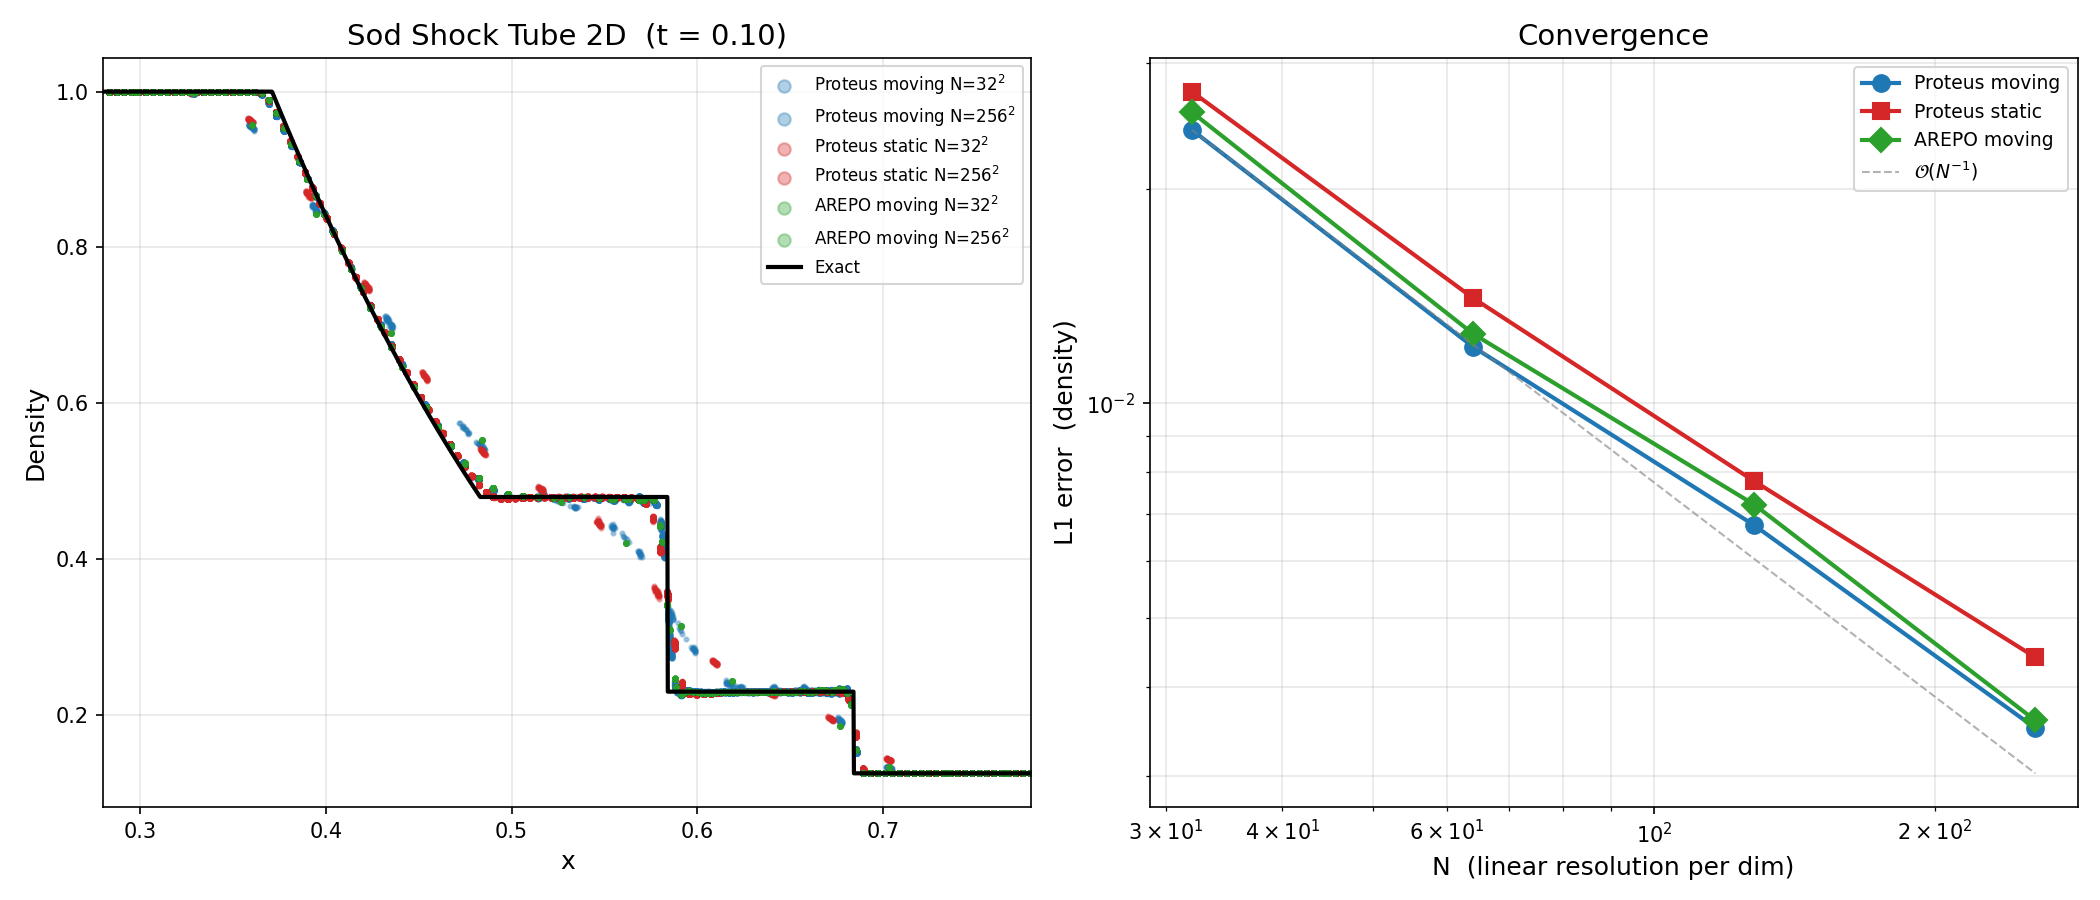
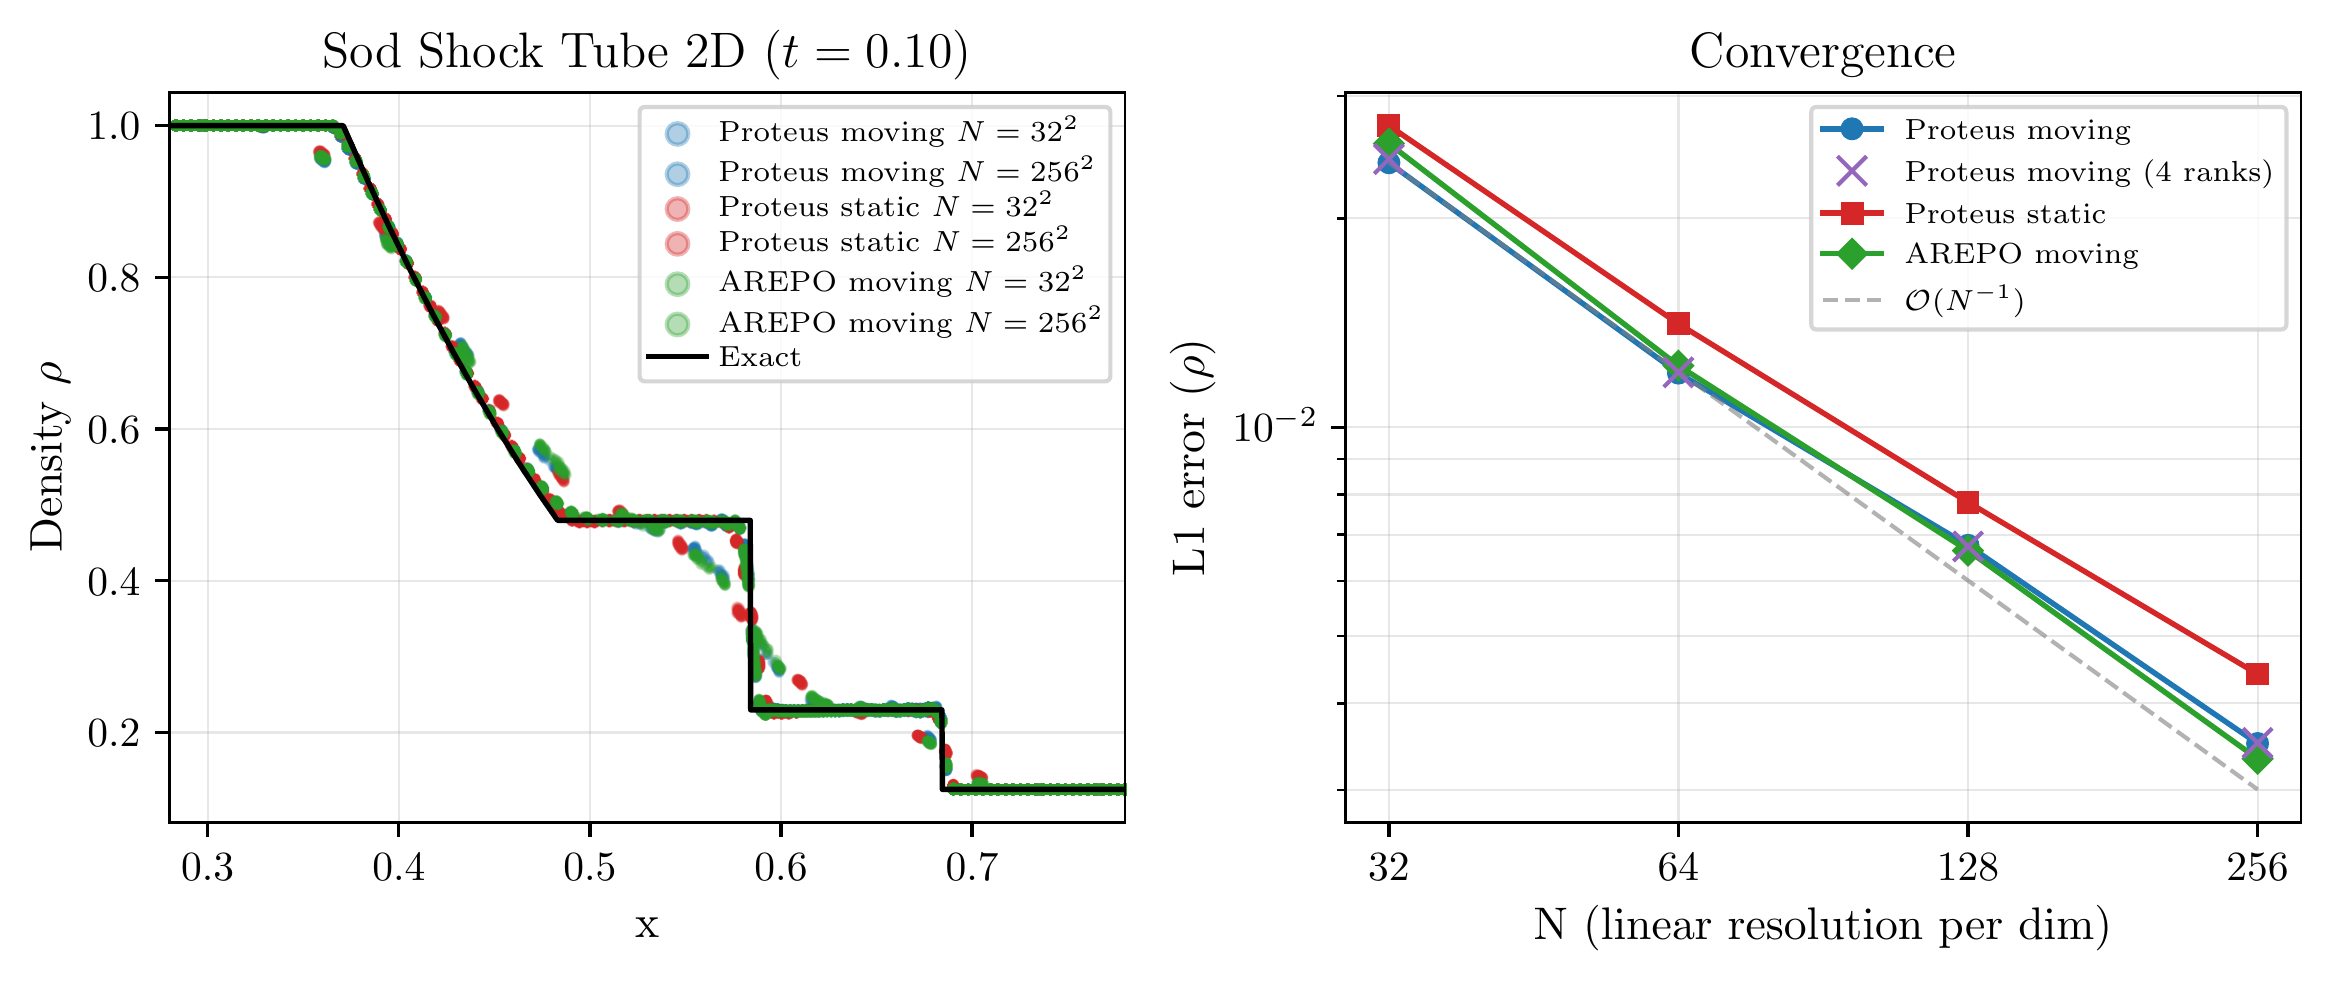
[DOC]: update readme + figures

diff --git a/README.md b/README.md
@@ -1,60 +1,91 @@
-# ProteusGPU
+# Proteus
 
 [![Build](https://github.com/lucas56098/ProteusGPU/actions/workflows/build.yml/badge.svg)](https://github.com/lucas56098/ProteusGPU/actions/workflows/build.yml) [![Version 0.8](https://img.shields.io/badge/version-0.8-blue)](https://github.com/lucas56098/ProteusGPU/releases)
 
-![Banner](/docs/figures/banner_v6.webp)
+![Banner](./docs/figures/banner_v6.webp)
 
-Proteus is a GPU accelerated moving mesh hydrodynamics code.
+PROTEUS is a multi-node GPU-native moving mesh hydrodynamics code.
 
-It combines the algorithmic approach of ["Meshless Voronoi on the GPU" [Ray et. al 2018]](https://doi.org/10.1145/3272127.3275092) with a moving mesh hydro solver similar to ["AREPO" [Springel 2010]](https://academic.oup.com/mnras/article/401/2/791/1147356) ported to GPU.
+It combines the mesh generation of [[Ray et. al 2018]](https://doi.org/10.1145/3272127.3275092) with a moving mesh hydro solver similar to ["AREPO" [Springel 2010]](https://academic.oup.com/mnras/article/401/2/791/1147356) and is optimized for unified memory architectures like NVIDIA's GH200 chips targeting exascale astrophysical applications.
+
+PROTEUS supports 2D/3D static/moving mesh generation on CPU and GPU (both unified and discrete memory) and is parallelized using an OpenMP + MPI hybrid (GPU-aware).
+
+Additionally to the pure hydro solver there is support for static potential gravity, radiative cooling, a stellar feedback subgrid model as well as a chaotic cold accretion AGN model with thermal and kinetic mode feedback.
 
 > [!NOTE]
-> The current version runs **2D/3D moving mesh hydrodynamics on NVIDIA GH200s** as well as discrete NVIDIA GPUs and CPUs. A rudimentary multi-node version is implemented but optimizations are ongoing.
+> The current version is still under active development, so expect rapid changes. Proper documentation will follow eventually.
 
-This project is being done during my master's thesis, supervised by [Dylan Nelson](https://nelson.tng-project.org/), at the Institute of Theoretical Astrophysics, Heidelberg University.
 
+This project started during my master's thesis, supervised by [Dylan Nelson](https://nelson.tng-project.org/), at the Institute of Theoretical Astrophysics, Heidelberg University.
+
+---
+
+## Contents
+
+- [Examples](#examples)
+    - [Convergence](#convergence)
+    - [Performance](#performance)
+    - [Multi-node scaling](#multi-node-scaling)
+- [Getting started](#getting-started)
+- [Roadmap](#roadmap)
+
+---
+## Examples 
+
+A $50^2$ Kelvin-Helmholtz instability on static and moving meshes.<br>
+<img src="./docs/figures/kh.png" alt="Image" width="100%">
+
+2D Riemann problem as in [[Kurganov and Tadmor, 2002]](https://www.semanticscholar.org/paper/Solution-of-two%E2%80%90dimensional-Riemann-problems-for-Kurganov-Tadmor/a44da75f9a36ab879fb9073f2571801eb7bc74a3)<br>
+<img src="./docs/figures/quadshock.png" alt="Image" width="100%">
+
+Volume rendering of AGN-feedback in an idealized Perseus-like cool-core cluster. Shown is the velocity magnitude with cool gas ($T < 5\times10^4 K$) overlaid in blue.<br>
+<img src="./docs/figures/jet_double_1024_s53.png" alt="Image" width="100%">
+
+### Convergence
+
+Acoustic wave test showing second order convergence:<br>
+<img src="./docs/figures/wave.png" alt="Image" width="100%">
+
+Sod shock tube test showing error relative to AREPO:<br>
+<img src="./docs/figures/sod_convergence.png" alt="Image" width="100%">
+
+Gresho vortex test:<br>
+<img src="./docs/figures/gresho_convergence.png" alt="Image" width="100%">
+
+### Performance
+
+Per step time for a $454^3$ acoustic wave test on two GH200 chips:<br>
+<img src="./docs/figures/perf_twonode_arepo.png" alt="Image" width="100%">
+
+Breakdown of where the per step time is spent:<br>
+<img src="./docs/figures/perf_step_breakdown.png" alt="Image" width="100%">
+
+Roofline plot for the major Kernels. Fast and slow-tier are part of the two-tier mesh generation.<br>
+<img src="./docs/figures/perf_kernel_roofline.png" alt="Image" width="100%">
+
+### Multi-node scaling
+
+Weak scaling on JUWELS booster for an acoustic wave test with up to $1920^3$ and $512$ A$100$ GPUs.<br>
+<img src="./docs/figures/weak_scaling_final.png" alt="Image" width="100%">
+
+---
 ## Getting started
 
+Dependencies: HDF5, CUDA (for GPU mode)
+
 1. After cloning the repo select your system in `Makefile.systype` (or add your own to the `Makefile`)
-2. Configure compilation flags in `Config.sh` and build with `make`
-3. Use a `create.py` script for IC generation and specify simulation parameters in `param.txt`
+2. Configure compilation flags in a `Config.sh` and build with
+```bash
+make CONFIG=/path/to/Config.sh BUILD_DIR=/path/to/build/ EXEC=/path/to/ProteusGPU
+```
+3. Use a `create.py` script for IC generation and specify simulation parameters in a `param.txt`
 4. Run the simulation with
 ```bash
 ./ProteusGPU [./ics/param.txt] [restart_flag]
 ```
-If the `restart_flag` is set the simulation continues from the last snapshot in the `output_folder`.
+or using MPI with `mpirun`. If the `restart_flag` is set, the simulation continues from the last snapshot in the `output_folder`.
 
-Experimental:
-If you want to run the MPI version with additional multithreading try
-```bash
-OMP_NUM_THREADS=[threads_per_rank] mpirun -np [number_of_ranks] --bind-to none ./ProteusGPU
-```
-otherwise every mpi-rank uses only two threads per rank... (will figure out an improvement of that in the future)
-
-## Examples 
-Convergence of acoustic wave: second-order <br>
-<img src="/docs/figures/convergence.png" alt="Video" width="50%">
-
-Sod's shock tube test compared to AREPO<br>
-<img src="/docs/figures/sod_convergence.png" alt="Image" width="80%">
-
-Taylor-Sedov blast wave (2D/3D):<br>
-<img src="/docs/figures/sedov.png" alt="Image" width="49%"> <img src="/docs/figures/sedov_3D_64.png" alt="Image" width="48%">
-
-Kelvin Helmholtz Instability ($51^2$ and $1024^2$)<br>
-<img src="/docs/figures/kh51.gif" alt="Image" width="49%"> <img src="/docs/figures/kh1024.png" alt="Image" width="49%">
-
-Some colliding clouds ($200^3$, see ics/create_cloud_crash.py)<br>
-<img src="/docs/figures/cloud_collision_3D.png" alt="Image" width="100%">
-
-A first run with 4 MPI tasks (still in early development).
-<img src="/docs/figures/kh_mpi4.gif" alt="Image" width="80%"> <br>
-Seedpoints are colorcoded according to their rank. 
-
-
-## Dependencies
-- HDF5 (`libhdf5-dev` on Ubuntu, via Homebrew on macOS)
-- CUDA Toolkit (for GPU mode, requires NVIDIA GPU)
+---
 
 ## Roadmap
 
@@ -69,3 +100,4 @@ Seedpoints are colorcoded according to their rank.
 * v0.9 - multi-GPU optimization
 * v1.0 - support for inhomogenous particle distributions
 
+additionally we plan to add more physics modules
